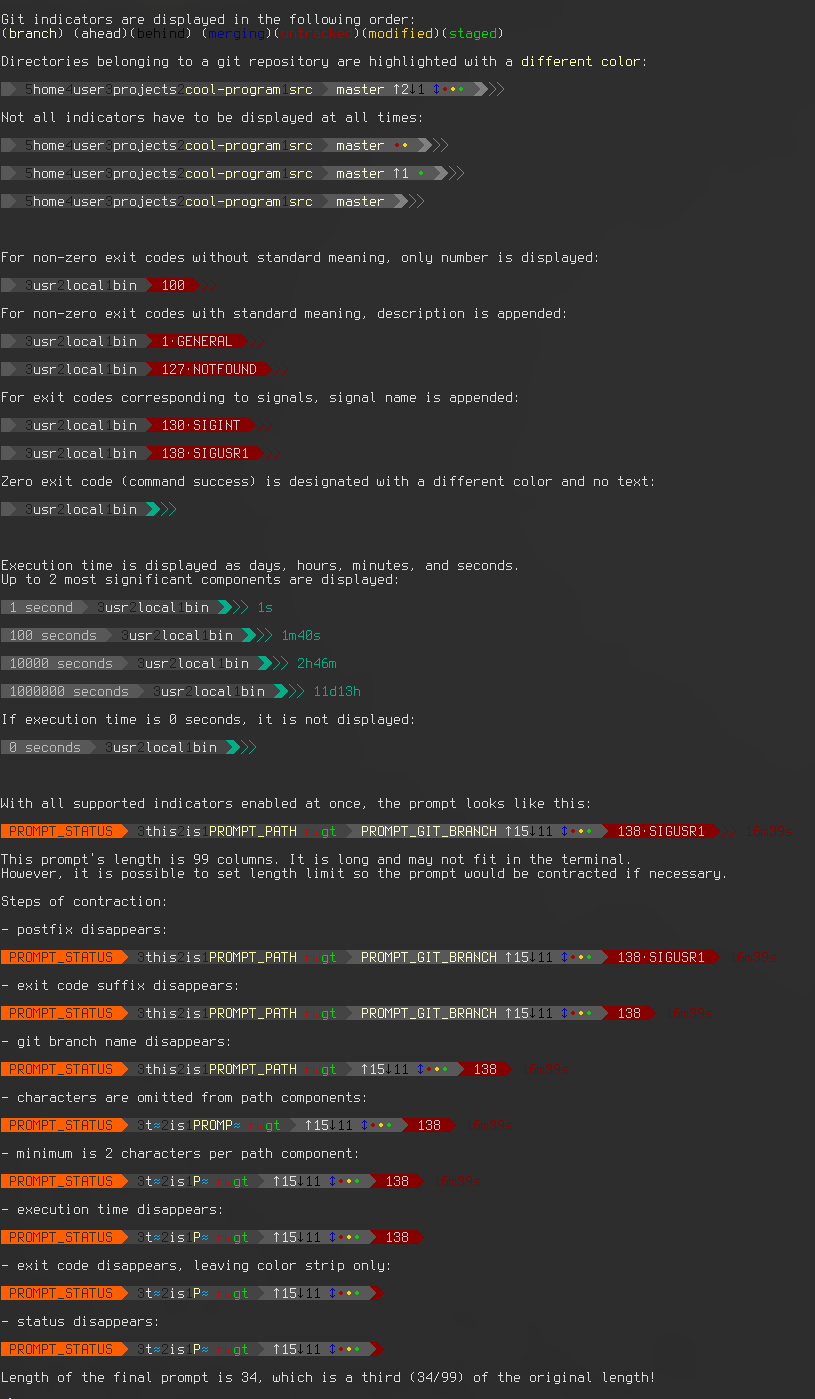
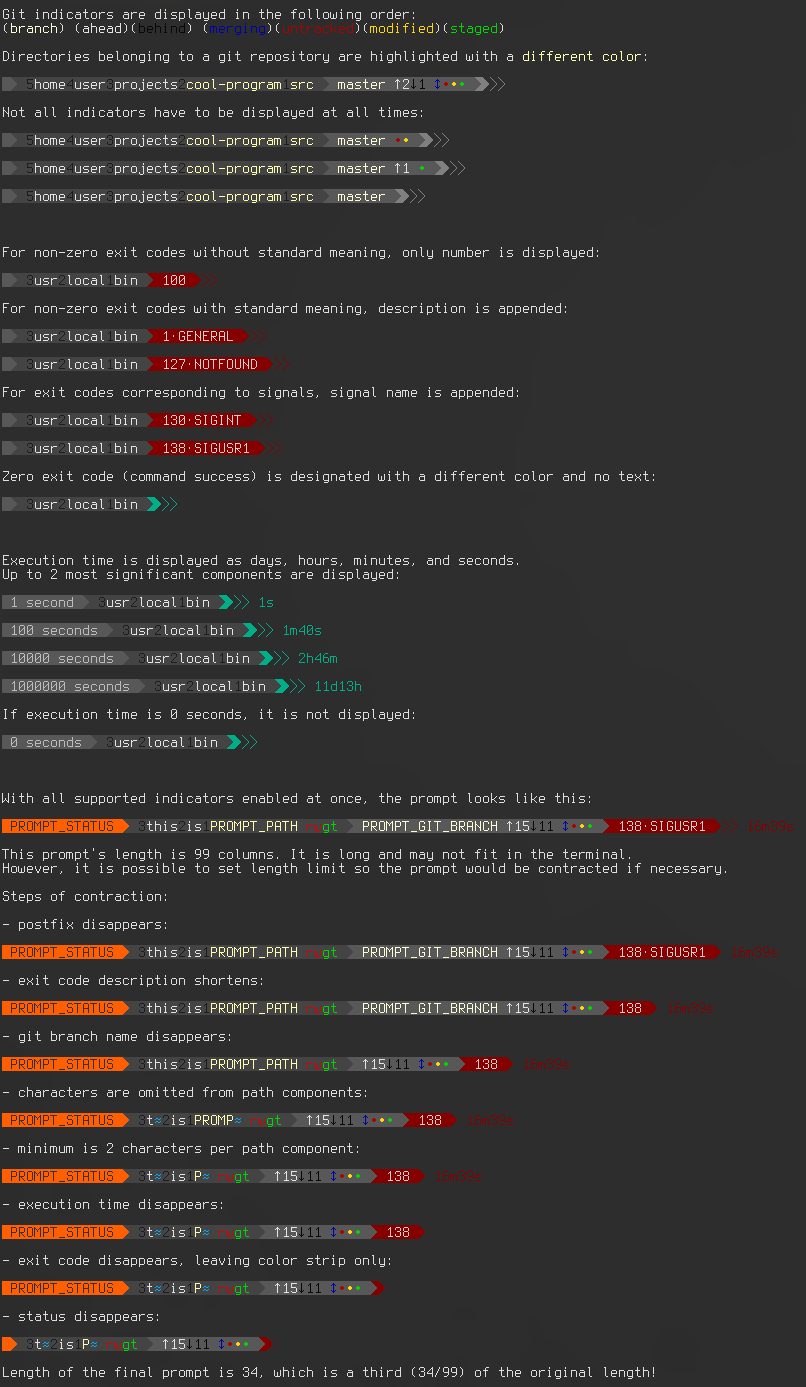
fix(prompt.py): incorrect contraction

diff --git a/prompt.py b/prompt.py
@@ -387,6 +387,7 @@ def prompt(prompt_state: dict) -> str:
         if surplus > 0:
             surplus -= length_exit_code - length_exit_code_short
             exit_code = exit_code_short
+            length_exit_code = length_exit_code_short
 
             if surplus > 0:
                 surplus -= length_git_branch
